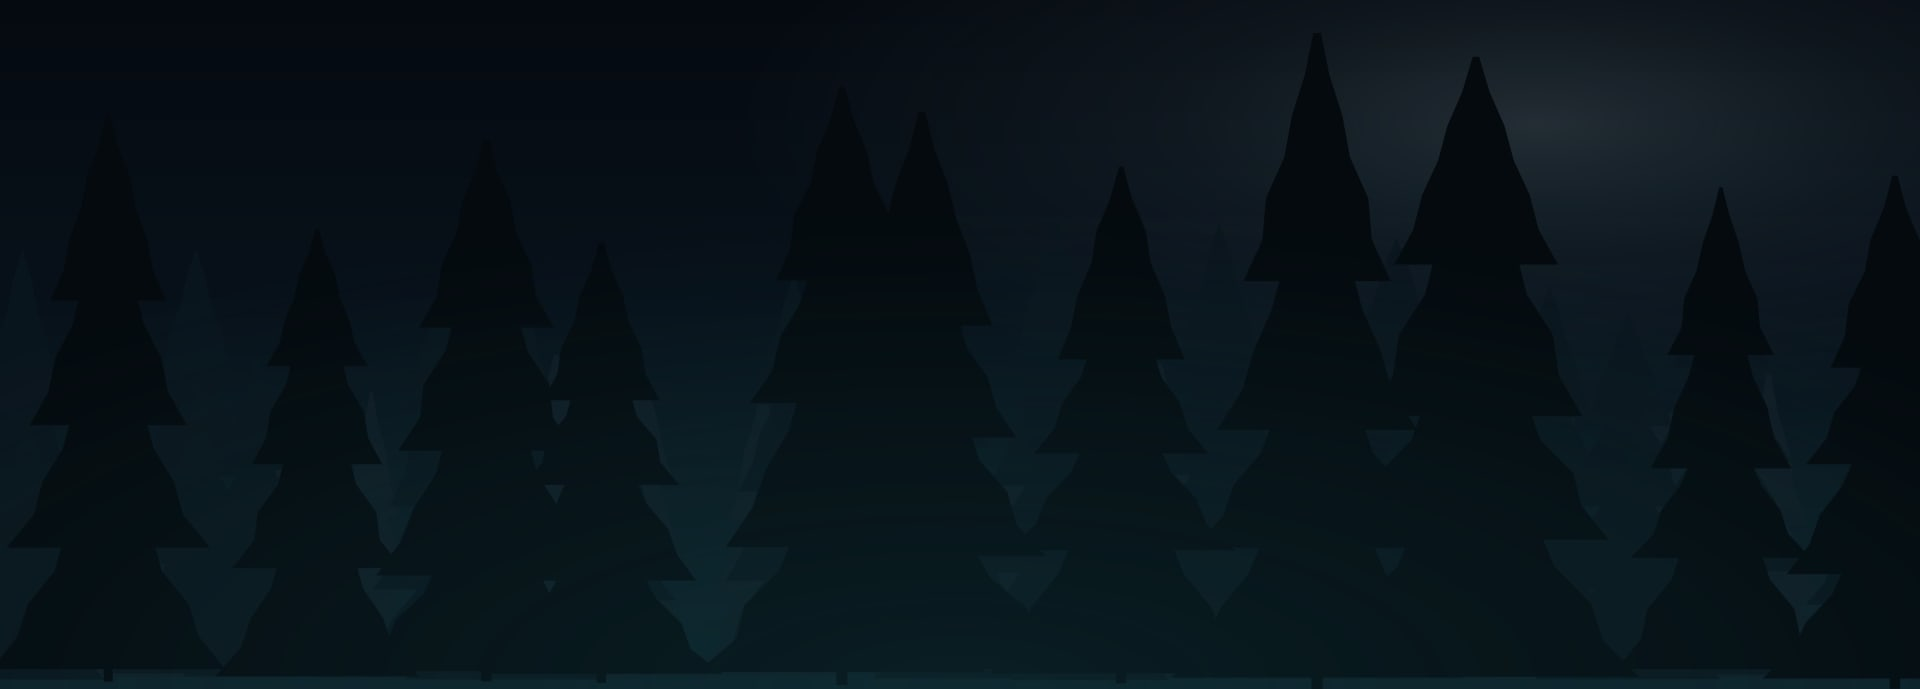
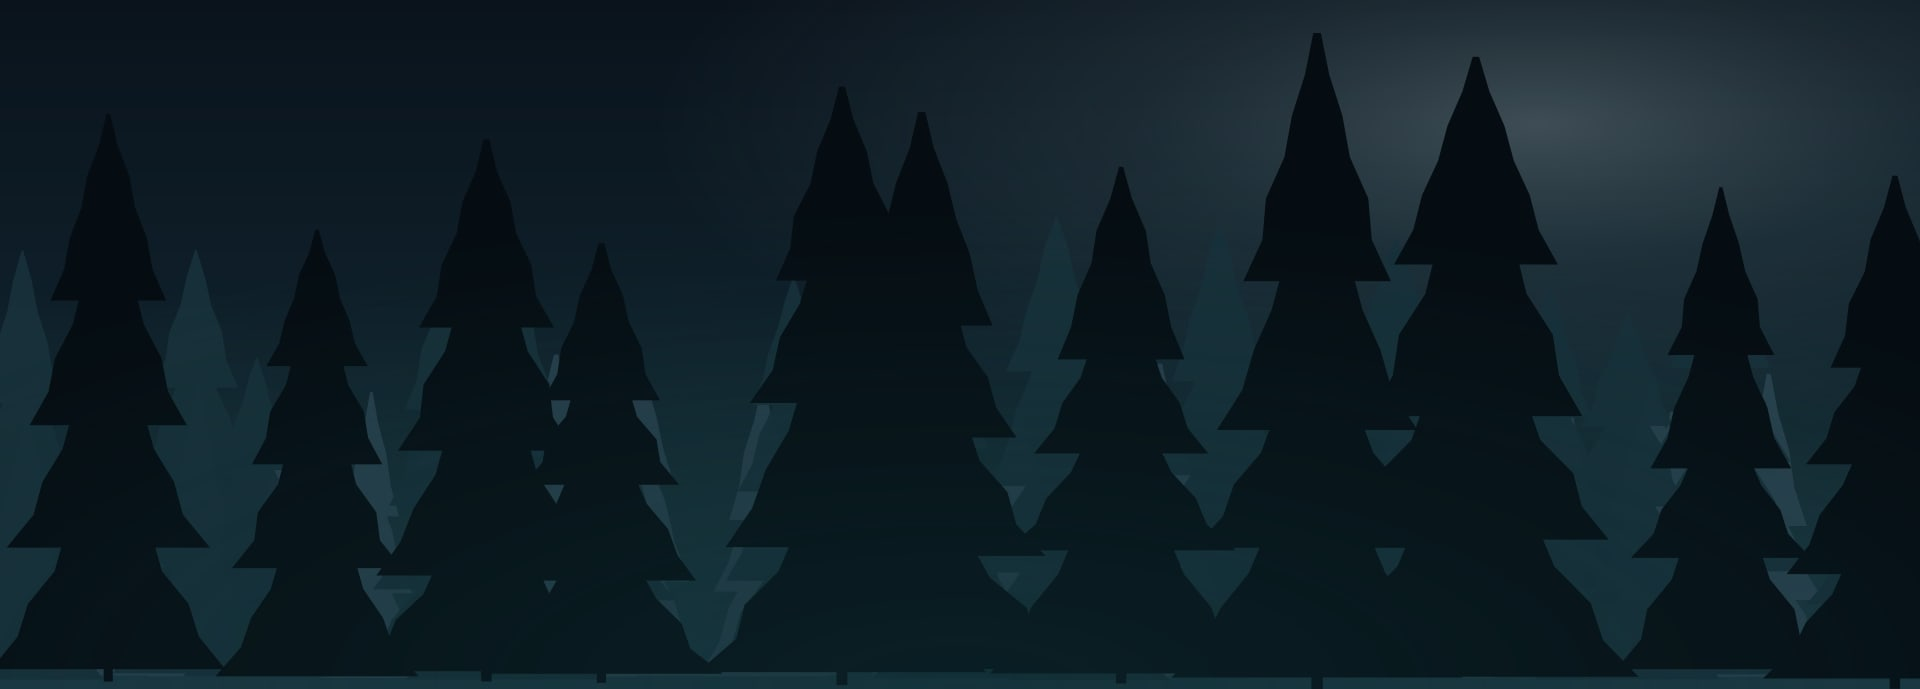
Fix recurring flicker and near-invisible background (#31)
Two real bugs, confirmed by actually reproducing them rather than
guessing:

1. Flicker: the RGB-split ".glitch-text" effect on "Coulrophobia"
   headings auto-looped every 8s, forever, on every page that renders
   it (including the homepage nightmare selector). Frame-diffing the
   page over a few seconds caught it dead to rights. Converted to a
   single hover-triggered blip (fine-pointer devices only) instead of
   an infinite auto-loop, so nothing fires on its own — matching the
   same "no periodic flicker, ever" rule the grain strobe was removed
   for earlier.

2. Invisible background: the per-section readability scrim (up to 76%
   black) was crushing the new dark-toned forest/fog to nothing, most
   obviously on mobile where two of three fog layers are already held
   static for performance. Lightened the scrim (0.62/0.76 -> 0.4/0.5),
   brightened the sky and far/mid tree layers in the forest plate for
   real contrast against the near-black near layer, and kept mobile's
   fog banks visible-but-static instead of one hidden outright.
   Re-verified text contrast stays above WCAG AA in the worst case.

diff --git a/app/globals.css b/app/globals.css
@@ -427,15 +427,18 @@ h1, h2, h3, h4, h5, h6 {
   min-height: 100vh;
 }
 
-/* Section spacing */
+/* Section spacing. The scrim exists so text stays readable over the fixed
+   woods behind it — but at 0.62-0.76 it was crushing the (deliberately
+   dark, nighttime-toned) trees and fog to invisible. Lightened so the
+   background actually reads through; text contrast re-verified below. */
 .section {
   position: relative;
   padding: 5rem 1.5rem;
   background: linear-gradient(
     to bottom,
     rgba(3, 11, 16, 0) 0%,
-    rgba(3, 11, 16, 0.62) 14%,
-    rgba(2, 9, 14, 0.76) 86%,
+    rgba(3, 11, 16, 0.4) 14%,
+    rgba(2, 9, 14, 0.5) 86%,
     rgba(2, 9, 14, 0) 100%
   );
 }
@@ -2102,7 +2105,12 @@ h1, h2, h3, h4, h5, h6 {
   color: rgba(232, 228, 220, 0.88);
 }
 
-/* Glitch text effect (decorative headings only) */
+/* Glitch text effect (decorative headings only). Used to auto-loop every
+   8s, which read as a periodic screen flicker rather than a one-off
+   effect — same class of problem as the grain strobe removed earlier.
+   Now a single hover-triggered blip, and only where hover actually means
+   something (a fine pointer) — nothing fires on its own, ever, so there
+   is nothing to flicker on mobile or on a page left sitting open. */
 .glitch-text {
   position: relative;
   display: inline-block;
@@ -2113,14 +2121,18 @@ h1, h2, h3, h4, h5, h6 {
   position: absolute;
   inset: 0;
   pointer-events: none;
+  opacity: 0;
 }
-.glitch-text[data-glitch]::before {
-  color: rgba(0, 196, 204, 0.5);
-  animation: glitchBefore 8s step-start infinite;
-}
-.glitch-text[data-glitch]::after {
-  color: rgba(196, 26, 0, 0.5);
-  animation: glitchAfter 8s step-start infinite;
+.glitch-text[data-glitch]::before { color: rgba(0, 196, 204, 0.5); }
+.glitch-text[data-glitch]::after { color: rgba(196, 26, 0, 0.5); }
+
+@media (hover: hover) and (pointer: fine) {
+  .glitch-text:hover[data-glitch]::before {
+    animation: glitchBefore 1.3s step-start 1;
+  }
+  .glitch-text:hover[data-glitch]::after {
+    animation: glitchAfter 1.3s step-start 1;
+  }
 }
 @keyframes glitchBefore {
   0%, 94%, 100% { clip-path: none; transform: none; opacity: 0; }
@@ -2166,12 +2178,14 @@ h1, h2, h3, h4, h5, h6 {
      on a phone GPU is the other common source of on-screen flicker, on top
      of the grain strobe that was removed outright. Keep the woods and the
      fog, but hold most of it still: one drifting bank instead of three,
-     and no moving trees or glow. */
-  .atmosphere-fogbank-3 { display: none; }
+     and no moving trees or glow. Held static (not hidden) rather than
+     removed, so there is still real fog to see, not just a thinner haze. */
   .atmosphere-trees,
   .atmosphere-glow,
-  .atmosphere-fogbank-2 { animation: none; }
-  .atmosphere-fogbank-2 { opacity: 0.22; }
+  .atmosphere-fogbank-2,
+  .atmosphere-fogbank-3 { animation: none; }
+  .atmosphere-fogbank-2 { opacity: 0.3; }
+  .atmosphere-fogbank-3 { opacity: 0.22; }
   .atmosphere-grain { opacity: 0.025; }
   /* Lighter fog on mobile */
   :root {
